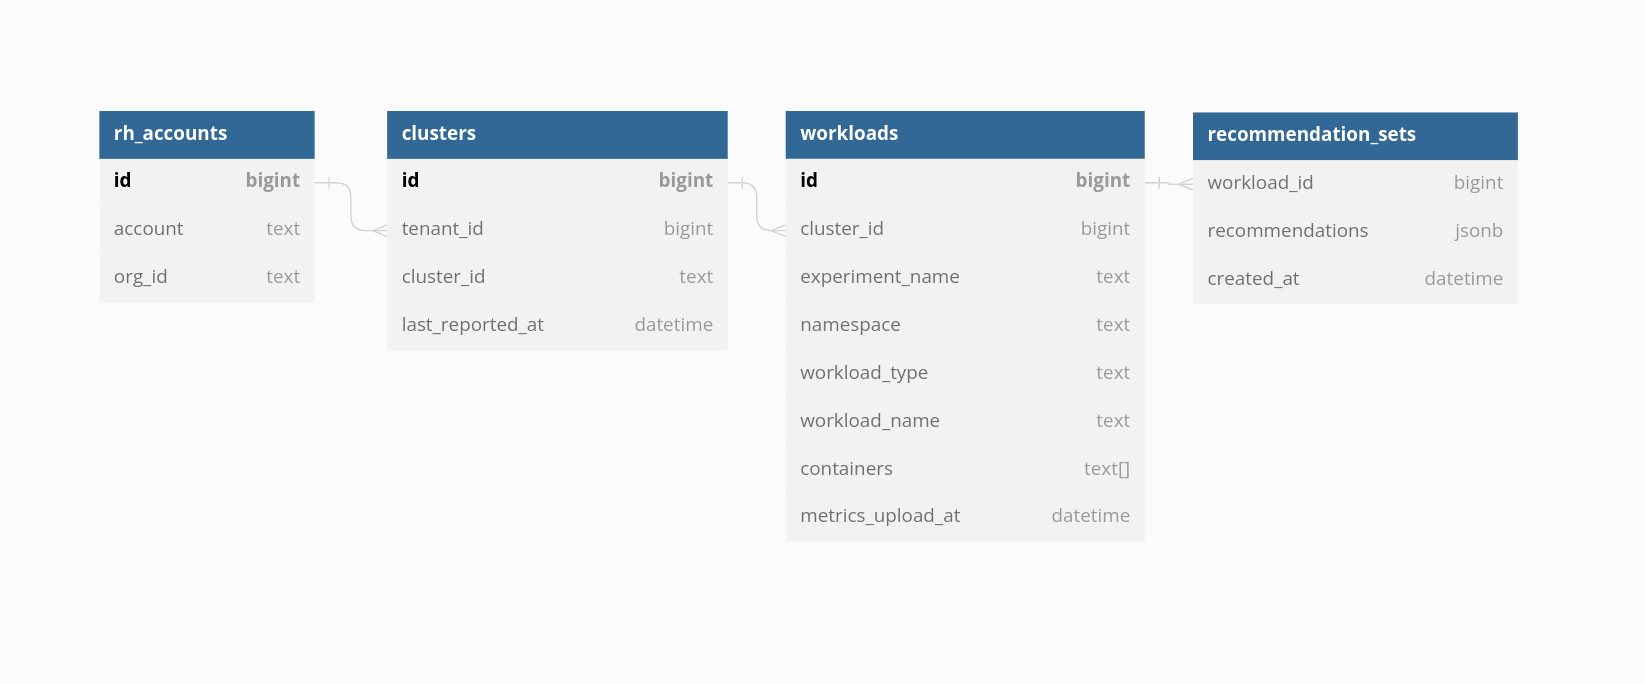
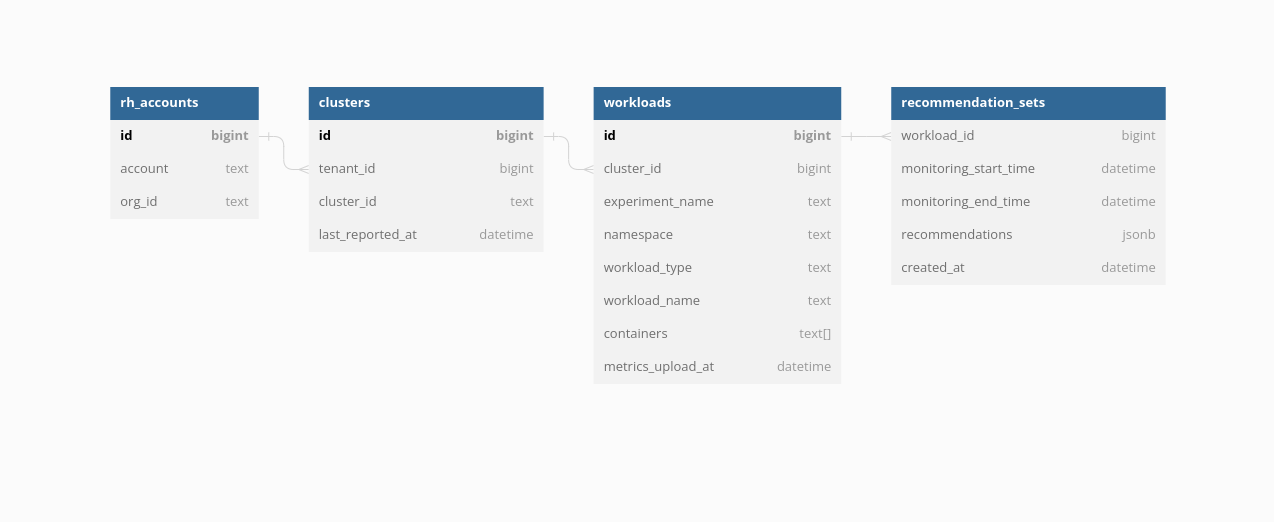
Added monitoring timestamps in DB schema

diff --git a/internal/model/recommendation_set.go b/internal/model/recommendation_set.go
@@ -7,8 +7,10 @@ import (
 )
 
 type RecommendationSet struct {
-	WorkloadID      uint
-	Workload        Workload
-	Recommendations datatypes.JSON
-	CreatedAt       time.Time
+	WorkloadID          uint
+	Workload            Workload
+	MonitoringStartTime time.Time
+	MonitoringEndTime   time.Time
+	Recommendations     datatypes.JSON
+	CreatedAt           time.Time
 }
